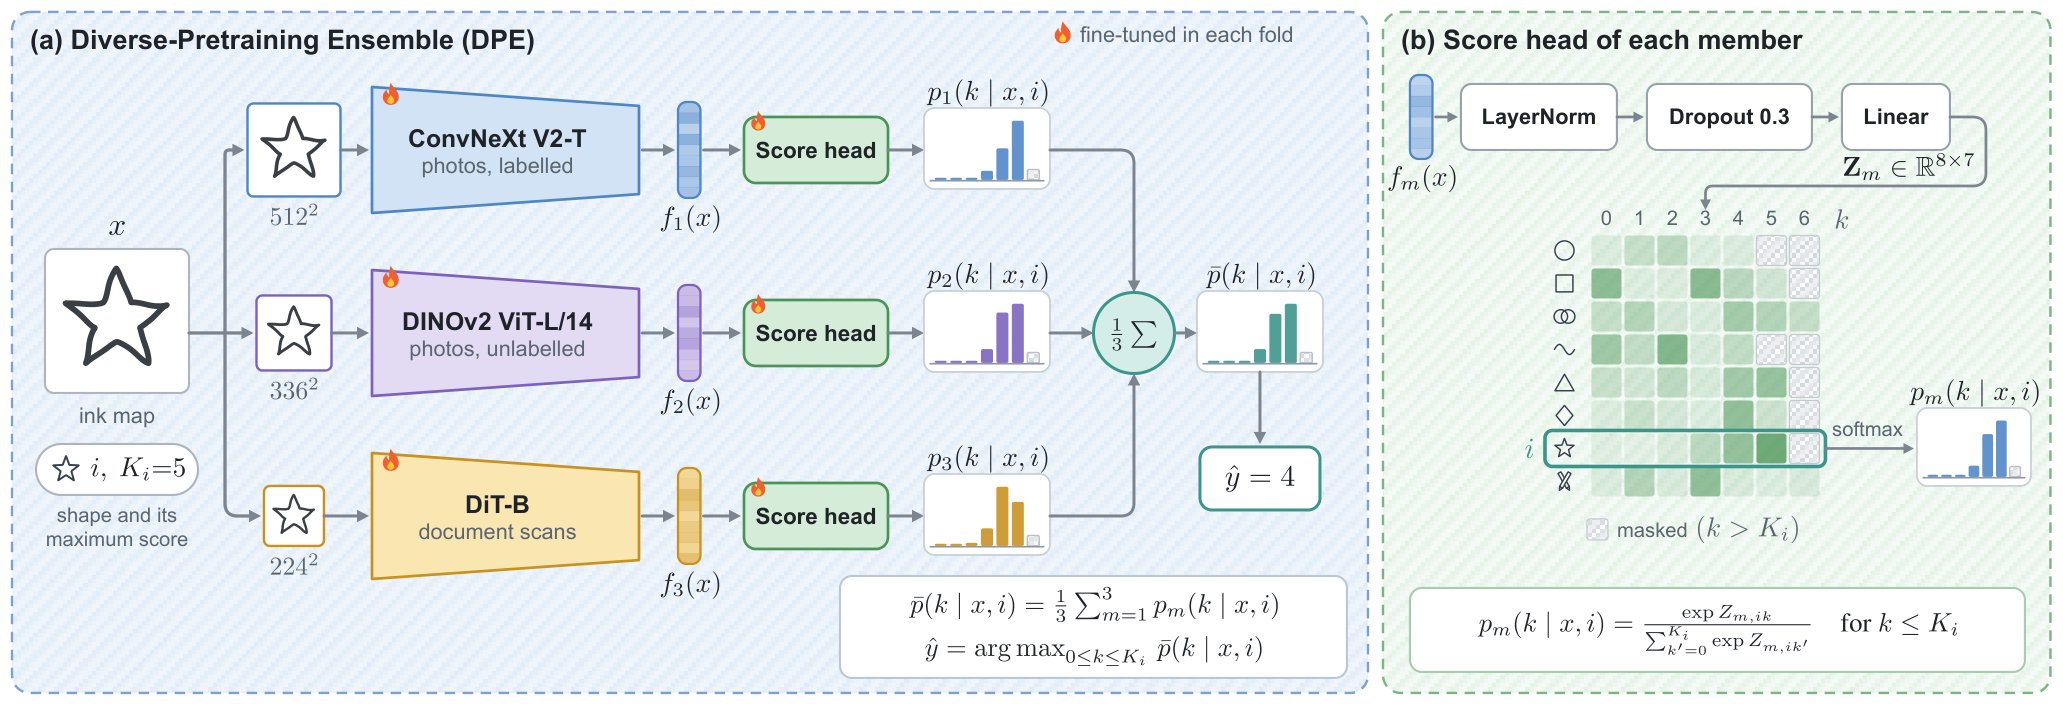
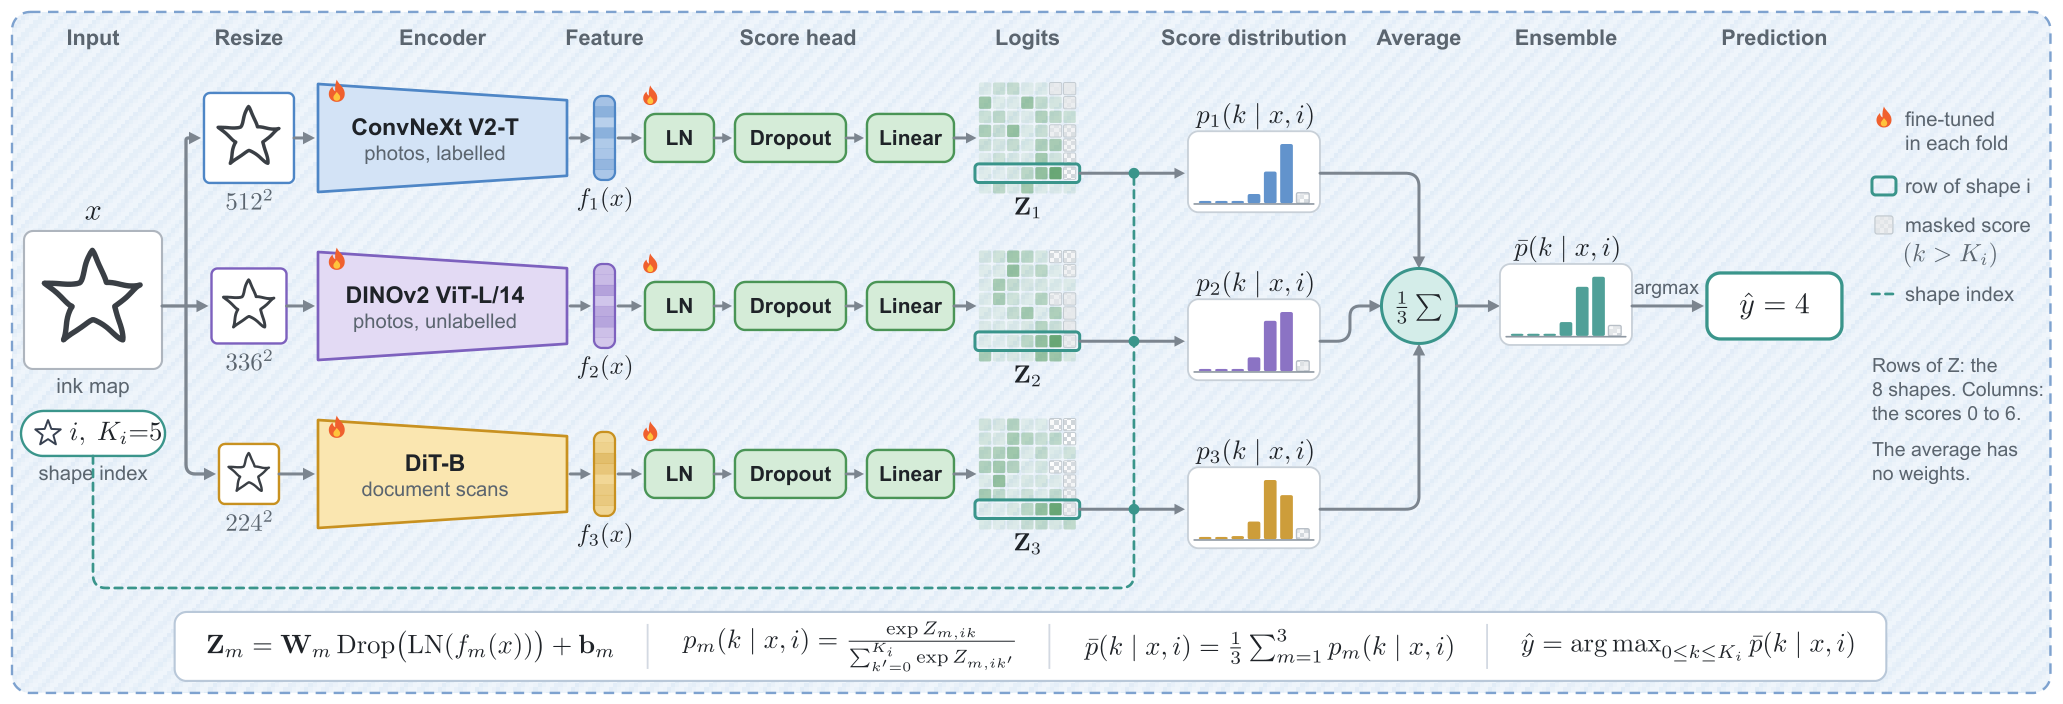
Show DPE as one left-to-right pipeline in the README

diff --git a/README.md b/README.md
@@ -39,10 +39,11 @@ pretrained on labelled photos, unlabelled photos and document scans.
   <img src="assets/dpe_architecture.png" width="100%" alt="DPE architecture">
 </p>
 
-<p align="center"><b>DPE.</b> (a) Three encoders with different pretraining read the ink map at their own input size.
-Each feeds its own score head, and DPE averages the three score distributions of the drawing's shape. The average has
-no trainable weights. (b) The score head normalises the feature, maps it to 7 logits for each of the 8 shapes, keeps
-the row of the drawing's shape and applies a softmax over its valid scores.</p>
+<p align="center"><b>DPE, from the ink map to the predicted score.</b> Three encoders with different pretraining read
+the ink map at their own input size. In each member, the feature passes through layer normalisation, dropout and a
+linear layer to logits for the 8 shapes and 7 scores. The shape index selects the row of the drawing's shape, scores
+above its maximum are masked, and a softmax gives the score distribution. DPE averages the three distributions and
+predicts the most probable valid score. The average has no trainable weights.</p>
 
 For a drawing $x$ of shape $i$ with maximum score $K_i$, member $m$ gives $p_m(k \mid x, i)$ over $k = 0, \dots, K_i$, and
 
